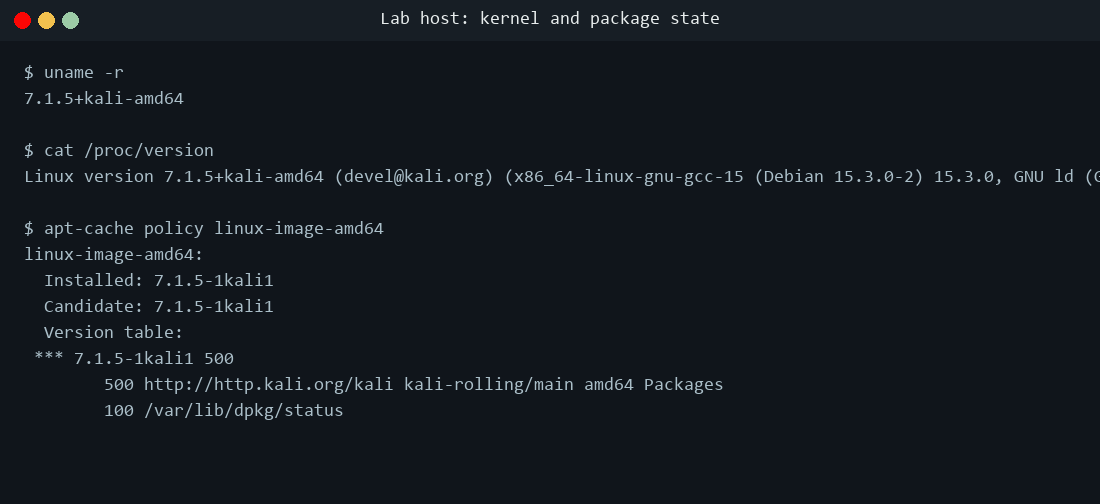
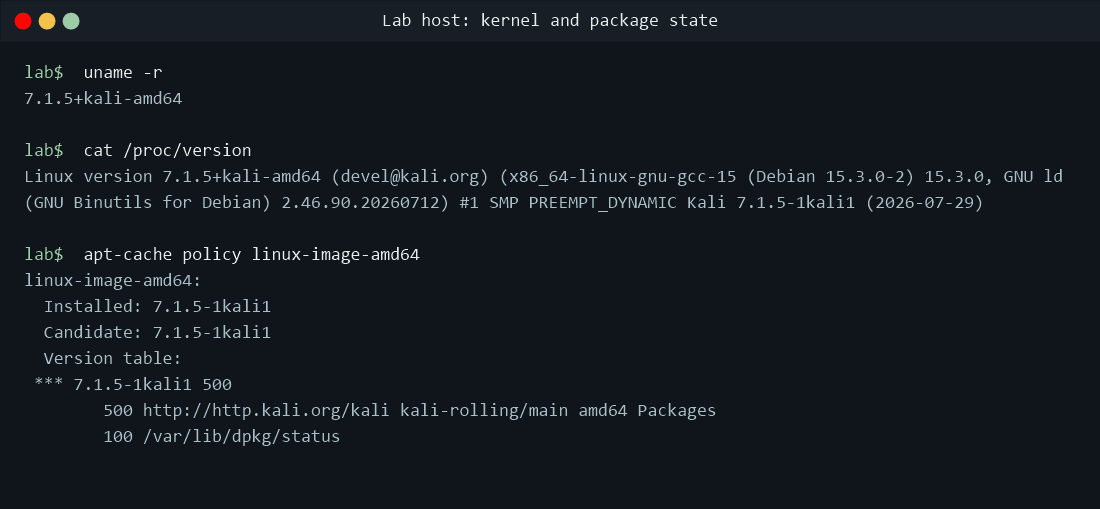
docs(case-studies): fix the host-check screenshots and readings after review
Re-render check-1 with the /proc/version line wrapped so its tail is
visible, and check-2 with a summary line limited to "since boot". Say
"a neutral prompt" and note the two reshaped lines, count a "*"
dual-stack listener as IPv4 (sourced to iproute2 ss.c and the kernel's
tcp_ipv6.c), and qualify the Multipath TCP row placement because the
force-enable checks were not part of the lab capture.

diff --git a/case-studies/LINUX_TCP_UAF_2026.md b/case-studies/LINUX_TCP_UAF_2026.md
@@ -181,7 +181,7 @@ Because there is no reported in-the-wild activity, detection here is mostly abou
 
 Three short checks tell you where a Linux host stands on CVE-2026-98432: whether the running kernel carries the fix, whether Multipath TCP is in a state that adds the reported remote-code-execution path, and whether an IPv4 TCP listener is reachable at all. Every command in the three checks only reads state; none of them changes the host. Run them in order, because the answer to the first decides how much the other two matter.
 
-The screenshots were captured on a lab host running Kali 2026.2 with kernel 7.1.5 on 3 November 2026. That host was unpatched on that date and no fixed package was available for it yet, so it works through the case of "vulnerable, no fix path, mitigate and watch." Each screenshot is a rendering of the commands' real output with a neutral `lab$` prompt. The fixed versions are **Confirmed** from the Debian security tracker and kernel.org as opened on 3 November 2026; the lab readings are the measured output of one host on one date.
+The screenshots were captured on a lab host running Kali 2026.2 with kernel 7.1.5 on 3 November 2026. That host was unpatched on that date and no fixed package was available for it yet, so it works through the case of "vulnerable, no fix path, mitigate and watch." Each screenshot is a rendering of the commands' real output with a neutral prompt. Two lines are reshaped for the image: the long `/proc/version` line is wrapped onto two lines, and the `nstat` listing in Check 2 shows its first six counters and then a summary line in place of the remaining 70 (all of them 0). The fixed versions are **Confirmed** from the Debian security tracker and kernel.org as opened on 3 November 2026; the lab readings are the measured output of one host on one date.
 
 ### Check 1: the running kernel and its package
 
@@ -191,7 +191,7 @@ cat /proc/version
 apt-cache policy linux-image-amd64
 ```
 
-![Terminal output on the lab host: uname -r prints 7.1.5+kali-amd64, /proc/version names the Kali 7.1.5-1kali1 kernel build of 2026-07-29, and apt-cache policy for linux-image-amd64 shows Installed and Candidate both at 7.1.5-1kali1 from the kali-rolling repository](assets/check-1-kernel.png)
+![Terminal output on the lab host: uname -r prints 7.1.5+kali-amd64, /proc/version (wrapped onto two lines) ends with the Kali 7.1.5-1kali1 kernel build of 2026-07-29, and apt-cache policy for linux-image-amd64 shows Installed and Candidate both at 7.1.5-1kali1 from the kali-rolling repository](assets/check-1-kernel.png)
 
 `uname -r` names the kernel that is running now, which is the one that matters. The end of `/proc/version` carries the distribution's package version for that build (`Kali 7.1.5-1kali1 (2026-07-29)` on the lab host), which is the number to compare against an advisory. `apt-cache policy` shows the kernel package that is installed and the newest one the configured repositories offer (the Candidate). On RPM-based distributions the per-platform table above gives the equivalent commands.
 
@@ -220,9 +220,9 @@ nstat -az | grep -i mptcp
 
 On your own host, put the name `uname -r` printed in place of `7.1.5+kali-amd64` in the second command, or write the path as `/boot/config-"$(uname -r)"`.
 
-![Terminal output on the lab host: /proc/sys/net/mptcp/enabled prints 1, the kernel config shows CONFIG_MPTCP=y, CONFIG_INET_MPTCP_DIAG=m and CONFIG_MPTCP_IPV6=y, ss -Mlan prints only its header row, and nstat lists the MPTcpExt counters, every one of them 0](assets/check-2-mptcp.png)
+![Terminal output on the lab host: /proc/sys/net/mptcp/enabled prints 1, the kernel config shows CONFIG_MPTCP=y, CONFIG_INET_MPTCP_DIAG=m and CONFIG_MPTCP_IPV6=y, ss -Mlan prints only its header row, and nstat lists the first six MPTcpExt counters at 0, followed by a summary line that all 76 counters are 0, meaning no Multipath TCP traffic since boot](assets/check-2-mptcp.png)
 
-The four commands answer the three questions from [the Multipath TCP case study](/case-studies/MPTCP_ATTACK_SURFACE_2026.md#part-3-how-to-check-your-exposure-and-why): is MPTCP compiled in (`CONFIG_MPTCP=y`), is it enabled (`1` in the sysctl file), and is anything using it (`ss -Mlan` lists MPTCP sockets in every state, and `nstat -az` prints the kernel's MPTCP counters since boot, zero values included). On the lab host MPTCP is compiled in and enabled, but `ss -Mlan` prints only its header row and every MPTcpExt counter in the output is 0: the feature is switched on and has not been used since boot.
+The four commands answer the three questions from [the Multipath TCP case study](/case-studies/MPTCP_ATTACK_SURFACE_2026.md#part-3-how-to-check-your-exposure-and-why): is MPTCP compiled in (`CONFIG_MPTCP=y`), is it enabled (`1` in the sysctl file), and is anything using it (`ss -Mlan` lists MPTCP sockets in every state, and `nstat -az` prints the kernel's MPTCP counters since boot, zero values included). On the lab host MPTCP is compiled in and enabled, but `ss -Mlan` prints only its header row and every MPTcpExt counter in the output is 0: the feature is switched on and has not been used since boot. Question 3 of that study adds two force-enable checks (the `mptcpize` search and the `bpftool` listing); they were not part of the lab capture.
 
 - **What the reported remote-code-execution path needs:** a row in `ss -Mlan` in the LISTEN state. Anthropic's exploit report and the AWS bulletin tie the remote-code-execution outcome to a host with a Multipath TCP listener. Nonzero counters show MPTCP traffic has been seen since boot, so a host with them deserves a closer look even if no listener shows at the moment you check.
 - **What an empty socket list means:** the configuration in which the remote-code-execution exploit was reported is absent at that moment. The plain IPv4 TCP path to a crash, memory disclosure or corruption is still there, because the flaw is in ordinary IPv4 TCP connection handling, not in MPTCP. Red Hat's bulletin puts it directly: a result with no MPTCP listeners "should be treated as informational rather than as reassurance."
@@ -237,11 +237,11 @@ grep -i -c 'ip option' /etc/nftables.conf
 
 ![Terminal output on the lab host: ss -lntp lists a loopback-only listener on 127.0.0.1 and port 22 listening on 0.0.0.0 for IPv4 and on the IPv6 any-address, and grep for ip option in /etc/nftables.conf counts 0 matching lines](assets/check-3-exposure.png)
 
-`ss -lntp` lists the TCP sockets in the LISTEN state. A local address of `0.0.0.0` means the socket accepts IPv4 connections on every interface, which is the input the flaw needs: an inbound IPv4 connection request. A `127.0.0.1` listener is reachable only from the host itself. The `[::]` rows are IPv6, which the kernel's description of the fix says is not affected by the primary issue. On the lab host, port 22 (SSH) listens on `0.0.0.0`, so the plain IPv4 TCP path is reachable from the network. The Process column is empty in this capture because `ss` was run without root; run it with `sudo` to see which program owns each listener.
+`ss -lntp` lists the TCP sockets in the LISTEN state. A local address of `0.0.0.0` means the socket accepts IPv4 connections on every interface, which is the input the flaw needs: an inbound IPv4 connection request. A `127.0.0.1` listener is reachable only from the host itself. A local address of `*` is a dual-stack listener: it is an IPv6 socket that also accepts IPv4 connections (as IPv4-mapped addresses), and those connections go through the kernel's IPv4 TCP path, so count a `*` row as an IPv4 listener. The `[::]` rows are IPv6-only sockets, and IPv6 is what the kernel's description of the fix says is not affected by the primary issue. On the lab host, port 22 (SSH) listens on `0.0.0.0`, so the plain IPv4 TCP path is reachable from the network. The Process column is empty in this capture because `ss` was run without root; run it with `sudo` to see which program owns each listener.
 
 The `grep` counts lines in the persistent nftables configuration that mention IP options; `0` means no such rule is written there. Red Hat's bridge rule (below) lives in its own table, matches on `ip hdrlength` rather than the words "ip option," and does not survive a reboot, so check it live with the bulletin's `sudo nft list table inet cve_2026_98432` once you have applied it.
 
-- **What vulnerable looks like:** an unpatched kernel from Check 1 with any IPv4 listener on `0.0.0.0` or a routable address, and no IP-options filter in front of it. The lab host is in this state.
+- **What vulnerable looks like:** an unpatched kernel from Check 1 with any IPv4 listener on `0.0.0.0`, `*` or a routable address, and no IP-options filter in front of it. The lab host is in this state.
 - **What mitigated looks like:** the same listeners, with Red Hat's table loaded (or an equivalent filter at the network edge) until the fixed kernel is running.
 
 ### If you cannot patch yet
@@ -272,7 +272,7 @@ The match works because `ip hdrlength` is the IPv4 header length field, counted 
 - It is not persistent. Reapply it after any reboot that happens before the fixed kernel is installed.
 - On OpenShift nodes it filters only the host network namespace, not pod-to-pod traffic; filtering at the network boundary in front of the cluster does not have that limit.
 
-On a host that does not use Multipath TCP (Check 2 shows no MPTCP sockets, and there is no force-enable wrapper), you can also switch it off to remove the reported remote-code-execution path. At runtime:
+On a host that does not use Multipath TCP (Check 2 shows no MPTCP sockets, and [the force-enable checks](/case-studies/MPTCP_ATTACK_SURFACE_2026.md#question-3-is-anything-actually-using-it) find no `mptcpize` wrapper or MPTCP eBPF program), you can also switch it off to remove the reported remote-code-execution path. At runtime:
 
 ```bash
 sudo sysctl -w net.mptcp.enabled=0
@@ -287,7 +287,7 @@ sudo sysctl --system
 
 Red Hat notes that the setting governs only sockets created after the change, so a service that was already listening with MPTCP has to be restarted, and that the host stays affected through the plain IPv4 TCP path either way. MPTCP is disabled in Red Hat Enterprise Linux's default configuration, so on a default system the setting changes nothing. Confirm non-use first: [the Multipath TCP case study](/case-studies/MPTCP_ATTACK_SURFACE_2026.md#the-gate-confirm-non-use-first) explains why a service that requests MPTCP fails outright once it is off.
 
-For the lab host on 3 November 2026 this was the whole plan: with no fixed package to install, load the filter, turn MPTCP off because nothing used it, and re-run Check 1 until a fixed kernel appears.
+For the lab host on 3 November 2026 this was the whole plan: with no fixed package to install, load the filter, turn MPTCP off once the force-enable checks (which were not part of the lab capture) also confirm that nothing uses it, and re-run Check 1 until a fixed kernel appears.
 
 ### After patching
 
@@ -328,6 +328,7 @@ The program move is to carry all three signals and let them combine, which is th
 - The kernel.org release list ([releases.json](https://www.kernel.org/releases.json)), opened 3 November 2026, for the maintained series on that date: mainline 7.4-rc1, stable 7.3.1, 7.2.15 marked end of life, and longterm 6.18, 6.12, 6.6, 6.1, 5.15 and 5.10, with no 7.1 series listed.
 - Red Hat security bulletin RHSB-2026-016, reopened 3 November 2026, for the `cve_2026_98432` nftables table and its check, load, list and delete commands, the conditions attached to it (not a substitute for patching, test first, not persistent, host network namespace only on OpenShift), and its statements that disabling MPTCP governs only sockets created afterwards, that MPTCP is disabled in the default Red Hat Enterprise Linux configuration, and that a result with no MPTCP listeners is informational rather than reassurance.
 - The nftables wiki [quick reference](https://wiki.nftables.org/wiki-nftables/index.php/Quick_reference-nftables_in_10_minutes), for the `ip hdrlength` match and the hook priority values, and [RFC 791](https://www.rfc-editor.org/rfc/rfc791), for the IPv4 header length field (IHL, counted in 32-bit words, minimum 5).
+- The iproute2 source for `ss` ([misc/ss.c](https://github.com/iproute2/iproute2/blob/main/misc/ss.c)) and the Linux kernel's IPv6 TCP code ([net/ipv6/tcp_ipv6.c](https://github.com/torvalds/linux/blob/master/net/ipv6/tcp_ipv6.c)), both opened 3 November 2026: `inet_addr_print` prints an IPv6 any-address listener as `*` unless the socket is IPv6-only, in which case it prints `[::]`, and `tcp_v6_conn_request` and `tcp_v6_syn_recv_sock` hand IPv4 packets arriving on an IPv6 socket to `tcp_v4_conn_request` and `tcp_v4_syn_recv_sock`.
 - Command output captured on a lab host running Kali 2026.2 with kernel 7.1.5 on 3 November 2026, for the three screenshots and the lab readings in How to check your own host.
 
 ## Related references

diff --git a/case-studies/MPTCP_ATTACK_SURFACE_2026.md b/case-studies/MPTCP_ATTACK_SURFACE_2026.md
@@ -191,7 +191,7 @@ The exposure of a host is the row it lands on:
 
 ### How to check whether a host uses Multipath TCP
 
-The three questions above come down to four read-only commands. The screenshot was captured on a lab host running Kali 2026.2 with kernel 7.1.5 on 3 November 2026, and is a rendering of the commands' real output with a neutral `lab$` prompt.
+Four read-only commands cover the three questions above, except for the force-enable checks in Question 3 (the `mptcpize` search and the `bpftool` listing), which still apply on top of them. The screenshot was captured on a lab host running Kali 2026.2 with kernel 7.1.5 on 3 November 2026, and is a rendering of the commands' real output with a neutral prompt, with the `nstat` listing shortened to its first six counters and a summary line for the rest.
 
 ```bash
 cat /proc/sys/net/mptcp/enabled
@@ -202,9 +202,9 @@ nstat -az | grep -i mptcp
 
 On your own host, put the name `uname -r` prints in place of `7.1.5+kali-amd64` in the second command, or write the path as `/boot/config-"$(uname -r)"`.
 
-![Terminal output on the lab host: /proc/sys/net/mptcp/enabled prints 1, the kernel config shows CONFIG_MPTCP=y, CONFIG_INET_MPTCP_DIAG=m and CONFIG_MPTCP_IPV6=y, ss -Mlan prints only its header row, and nstat lists the MPTcpExt counters, every one of them 0](assets/check-2-mptcp.png)
+![Terminal output on the lab host: /proc/sys/net/mptcp/enabled prints 1, the kernel config shows CONFIG_MPTCP=y, CONFIG_INET_MPTCP_DIAG=m and CONFIG_MPTCP_IPV6=y, ss -Mlan prints only its header row, and nstat lists the first six MPTcpExt counters at 0, followed by a summary line that all 76 counters are 0, meaning no Multipath TCP traffic since boot](assets/check-2-mptcp.png)
 
-Reading the lab output against the table above: `CONFIG_MPTCP=y` answers Question 1 (compiled in), the `1` answers Question 2 (enabled), and the empty `ss -Mlan` list (only the header row) with every MPTcpExt counter at 0 answers Question 3 (not in use since boot). The host sits on the "Yes, Yes, No" row: removable surface, to be disabled after confirming non-use.
+Reading the lab output against the table above: `CONFIG_MPTCP=y` answers Question 1 (compiled in), the `1` answers Question 2 (enabled), and the empty `ss -Mlan` list (only the header row) with every MPTcpExt counter at 0 answers the socket part of Question 3 (no MPTCP sockets now, and no MPTCP traffic since boot). The force-enable checks from Question 3 were not part of the lab capture, so the host sits on the "Yes, Yes, No" row only provisionally: it becomes removable surface, to be disabled, once those checks also come back empty.
 
 - **What in use looks like:** a LISTEN row in `ss -Mlan`, or nonzero MPTcpExt counters, which show MPTCP traffic has been seen since boot. A host with either is on the last row of the table and should not have MPTCP switched off without checking what depends on it.
 - **What reduced looks like:** `0` from `/proc/sys/net/mptcp/enabled` after the change in Part 4, and still no MPTCP sockets.
